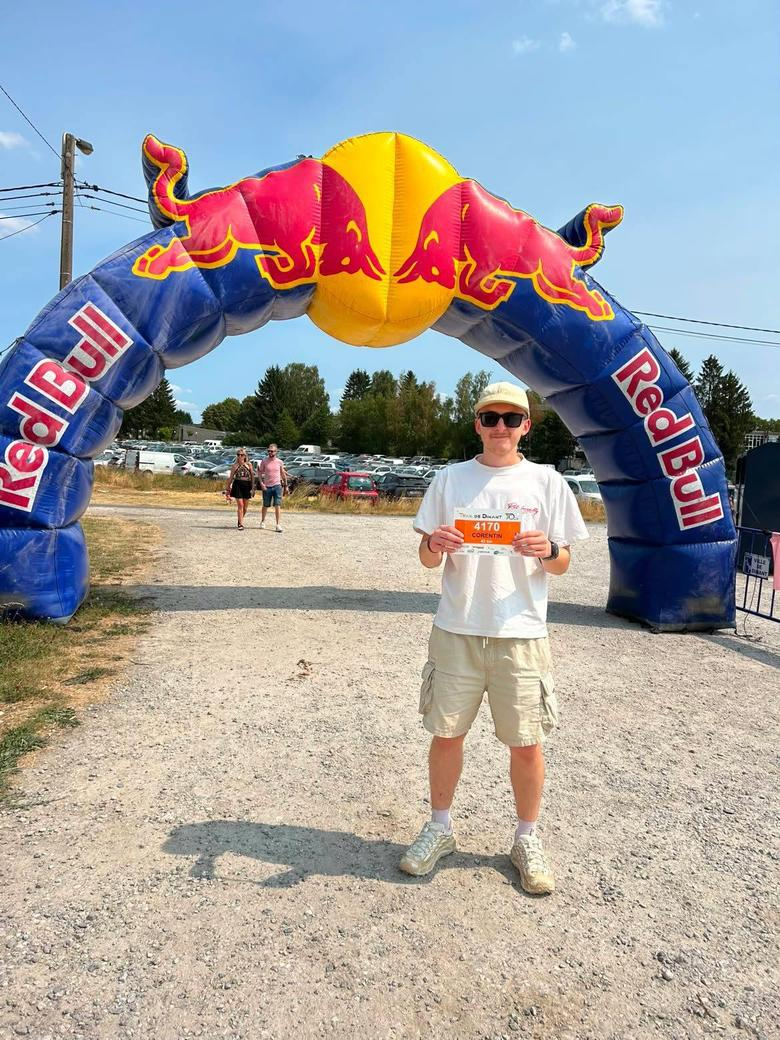
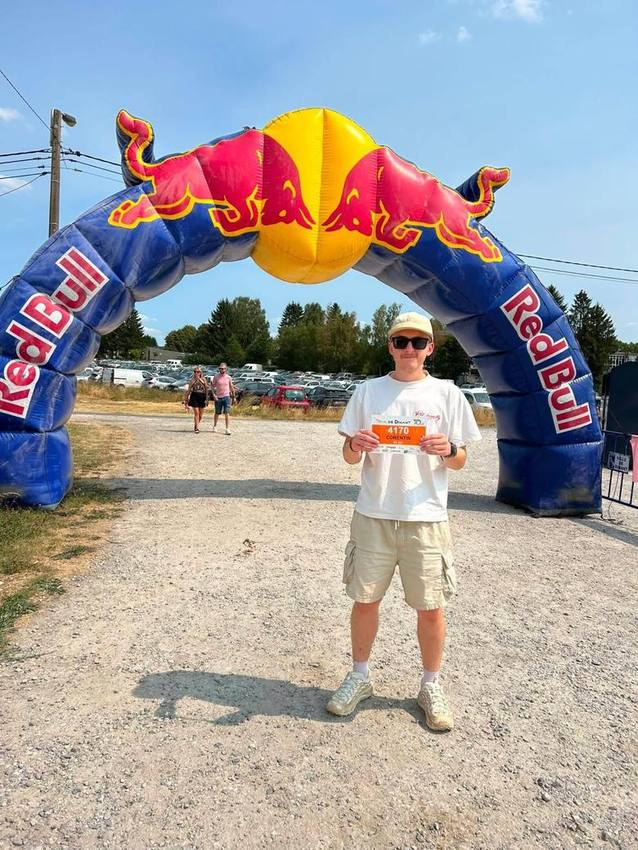
Cree des variantes photo dediees aux cartes et corrige le LCP de a-propos
Suite au rapport PageSpeed mobile de la page a-propos : les photos
corentin-avant-trail.jpg et corentin-trail.jpg servaient a la fois aux
petites vignettes (card-media, 160px) et aux photos "Mes sorties"
(sortie-photo, jusqu'a 340px), avec un seul fichier dimensionne pour
le plus grand usage. Cree deux variantes -card.jpg dediees aux
vignettes (~50 KiB chacune) et retaille les fichiers originaux pour
le contexte sortie-photo, gain net d'environ 90 KiB au total.

Ajoute aussi le preload fetchpriority=high manquant sur l'image LCP
de a-propos.html/en/about.html (corentin-bureau.jpg, jusqu'ici sans
hint de priorite), et precharge work-sans-700 car le texte en gras
du manifeste apparait au-dessus de la ligne de flottaison.

diff --git a/reflexions.html b/reflexions.html
@@ -122,7 +122,7 @@ height="0" width="0" style="display:none;visibility:hidden"></iframe></noscript>
       </a>
 
       <a class="article-card" data-pillar="personnes" href="/articles/pas-besoin-dun-ultra-pour-aimer-courir">
-        <div class="card-media card-media-photo" style="background-image:url('assets/corentin-trail.jpg'); background-position: top center;"><span>Personnes</span></div>
+        <div class="card-media card-media-photo" style="background-image:url('assets/corentin-trail-card.jpg'); background-position: top center;"><span>Personnes</span></div>
         <div class="card-body">
           <span class="tag partager">Personnes</span>
           <h3>Pas besoin d'un ultra pour aimer courir</h3>
@@ -152,7 +152,7 @@ height="0" width="0" style="display:none;visibility:hidden"></iframe></noscript>
       </a>
 
       <a class="article-card" data-pillar="marques" href="/articles/les-marques-ne-devraient-pas-regarder-que-le-podium">
-        <div class="card-media card-media-photo" style="background-image:url('assets/corentin-avant-trail.jpg');"><span>Marques</span></div>
+        <div class="card-media card-media-photo" style="background-image:url('assets/corentin-avant-trail-card.jpg');"><span>Marques</span></div>
         <div class="card-body">
           <span class="tag comprendre">Marques</span>
           <h3>Dans les grands événements sportifs, les marques ne devraient pas regarder que le podium</h3>

diff --git a/en/about.html b/en/about.html
@@ -33,8 +33,10 @@ j=d.createElement(s),dl=l!='dataLayer'?'&l='+l:'';j.async=true;j.src=
 <link rel="icon" type="image/png" sizes="32x32" href="../assets/favicon-32.png">
 <link rel="icon" type="image/png" sizes="16x16" href="../assets/favicon-16.png">
 <link rel="apple-touch-icon" sizes="180x180" href="../assets/apple-touch-icon.png">
+<link rel="preload" as="image" href="../assets/corentin-bureau.jpg" fetchpriority="high">
 <link rel="preload" as="font" type="font/woff2" href="../assets/fonts/bebas-neue-400.woff2" crossorigin>
 <link rel="preload" as="font" type="font/woff2" href="../assets/fonts/work-sans-400.woff2" crossorigin>
+<link rel="preload" as="font" type="font/woff2" href="../assets/fonts/work-sans-700.woff2" crossorigin>
 <link rel="stylesheet" href="../css/style.css">
 <script type="application/ld+json">
 {

diff --git a/a-propos.html b/a-propos.html
@@ -32,8 +32,10 @@ j=d.createElement(s),dl=l!='dataLayer'?'&l='+l:'';j.async=true;j.src=
 <link rel="icon" type="image/png" sizes="32x32" href="assets/favicon-32.png">
 <link rel="icon" type="image/png" sizes="16x16" href="assets/favicon-16.png">
 <link rel="apple-touch-icon" sizes="180x180" href="assets/apple-touch-icon.png">
+<link rel="preload" as="image" href="assets/corentin-bureau.jpg" fetchpriority="high">
 <link rel="preload" as="font" type="font/woff2" href="assets/fonts/bebas-neue-400.woff2" crossorigin>
 <link rel="preload" as="font" type="font/woff2" href="assets/fonts/work-sans-400.woff2" crossorigin>
+<link rel="preload" as="font" type="font/woff2" href="assets/fonts/work-sans-700.woff2" crossorigin>
 <link rel="stylesheet" href="css/style.css">
 <script type="application/ld+json">
 {

diff --git a/en/journal.html b/en/journal.html
@@ -113,7 +113,7 @@ height="0" width="0" style="display:none;visibility:hidden"></iframe></noscript>
       </a>
 
       <a class="article-card" data-pillar="people" href="/en/articles/you-dont-need-to-run-an-ultra-to-love-running">
-        <div class="card-media card-media-photo" style="background-image:url('../assets/corentin-trail.jpg'); background-position: top center;"><span>People</span></div>
+        <div class="card-media card-media-photo" style="background-image:url('../assets/corentin-trail-card.jpg'); background-position: top center;"><span>People</span></div>
         <div class="card-body">
           <span class="tag partager">People</span>
           <h3>You don't need to run an ultra to love running</h3>

diff --git a/en/index.html b/en/index.html
@@ -203,7 +203,7 @@ height="0" width="0" style="display:none;visibility:hidden"></iframe></noscript>
       </a>
 
       <a class="article-card" href="/en/articles/you-dont-need-to-run-an-ultra-to-love-running">
-        <div class="card-media card-media-photo" style="background-image:url('../assets/corentin-trail.jpg'); background-position: top center;"><span>People</span></div>
+        <div class="card-media card-media-photo" style="background-image:url('../assets/corentin-trail-card.jpg'); background-position: top center;"><span>People</span></div>
         <div class="card-body">
           <span class="tag partager">People</span>
           <h3>You don't need to run an ultra to love running</h3>

diff --git a/index.html b/index.html
@@ -202,7 +202,7 @@ height="0" width="0" style="display:none;visibility:hidden"></iframe></noscript>
       </a>
 
       <a class="article-card" href="/articles/pas-besoin-dun-ultra-pour-aimer-courir">
-        <div class="card-media card-media-photo" style="background-image:url('assets/corentin-trail.jpg'); background-position: top center;"><span>Personnes</span></div>
+        <div class="card-media card-media-photo" style="background-image:url('assets/corentin-trail-card.jpg'); background-position: top center;"><span>Personnes</span></div>
         <div class="card-body">
           <span class="tag partager">Personnes</span>
           <h3>Pas besoin d'un ultra pour aimer courir</h3>
